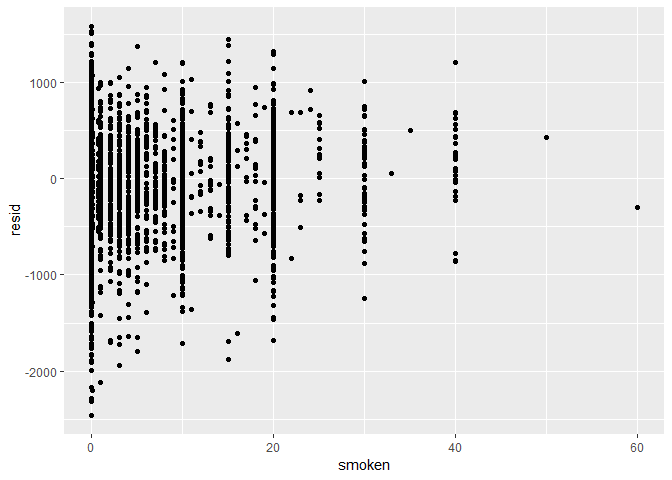
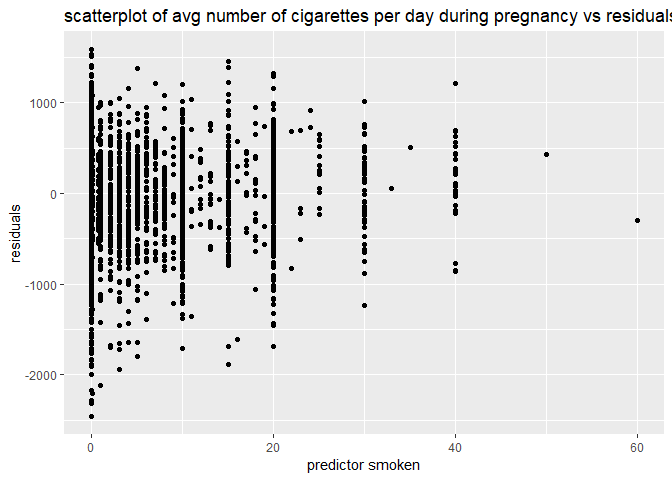
trying to finish the cross validation step >:O

diff --git a/p8105_hw6_cac2225.md b/p8105_hw6_cac2225.md
@@ -20,14 +20,14 @@ First loading all necessary packages for the homework assignment.
 library(tidyverse)
 ```
 
-    ## -- Attaching packages --------------------------------------------------------------------------------------------------------- tidyverse 1.2.1 --
+    ## -- Attaching packages ------------------------ tidyverse 1.2.1 --
 
     ## v ggplot2 3.0.0     v purrr   0.2.5
     ## v tibble  1.4.2     v dplyr   0.7.6
     ## v tidyr   0.8.1     v stringr 1.3.1
     ## v readr   1.1.1     v forcats 0.3.0
 
-    ## -- Conflicts ------------------------------------------------------------------------------------------------------------ tidyverse_conflicts() --
+    ## -- Conflicts --------------------------- tidyverse_conflicts() --
     ## x dplyr::filter() masks stats::filter()
     ## x dplyr::lag()    masks stats::lag()
 
@@ -262,7 +262,7 @@ skimr::skim(birthweight)
     ##  n obs: 4342 
     ##  n variables: 20 
     ## 
-    ## -- Variable type:factor --------------------------------------------------------------------------------------------------------------------------
+    ## -- Variable type:factor -----------------------------------------
     ##  variable missing complete    n n_unique
     ##   babysex       0     4342 4342        2
     ##     frace       0     4342 4342        5
@@ -274,7 +274,7 @@ skimr::skim(birthweight)
     ##                abs: 4327, pre: 15, NA: 0   FALSE
     ##  whi: 2147, bla: 1909, pue: 243, asi: 43   FALSE
     ## 
-    ## -- Variable type:integer -------------------------------------------------------------------------------------------------------------------------
+    ## -- Variable type:integer ----------------------------------------
     ##  variable missing complete    n      mean     sd  p0  p25    p50  p75 p100
     ##     bhead       0     4342 4342   33.65     1.62  21   33   34     35   41
     ##   blength       0     4342 4342   49.75     2.72  20   48   50     51   63
@@ -304,7 +304,7 @@ skimr::skim(birthweight)
     ##  <U+2581><U+2587><U+2586><U+2581><U+2581><U+2581><U+2581><U+2581>
     ##  <U+2581><U+2581><U+2581><U+2587><U+2587><U+2581><U+2581><U+2581>
     ## 
-    ## -- Variable type:numeric -------------------------------------------------------------------------------------------------------------------------
+    ## -- Variable type:numeric ----------------------------------------
     ##  variable missing complete    n  mean   sd    p0   p25   p50   p75 p100
     ##   gaweeks       0     4342 4342 39.43 3.15 17.7  38.3  39.9  41.1  51.3
     ##     ppbmi       0     4342 4342 21.57 3.18 13.07 19.53 21.03 22.91 46.1
@@ -333,7 +333,10 @@ First the residual values are plotted against each predictor variable. The resid
 ``` r
 birthweight %>% 
   modelr::add_residuals(lm_birthweight) %>% 
-  ggplot(aes(x = wtgain, y = resid)) + geom_point()
+  ggplot(aes(x = wtgain, y = resid)) + geom_point() +   labs(
+    x = "predictor weight gain",
+    y = "residuals",
+    title = "scatterplot of weight gain variable vs residuals")
 ```
 
 ![](p8105_hw6_cac2225_files/figure-markdown_github/wtgain%20vs%20residuals-1.png)
@@ -341,7 +344,10 @@ birthweight %>%
 ``` r
 birthweight %>% 
   modelr::add_residuals(lm_birthweight) %>% 
-  ggplot(aes(x = ppbmi, y = resid)) + geom_point()
+  ggplot(aes(x = ppbmi, y = resid)) + geom_point() + labs(
+    x = "predictor pre pregnancy bmi",
+    y = "residuals",
+    title = "scatterplot of pre pregnancy bmi vs. residuals")
 ```
 
 ![](p8105_hw6_cac2225_files/figure-markdown_github/ppbmi%20vs%20residuals-1.png)
@@ -349,7 +355,10 @@ birthweight %>%
 ``` r
 birthweight %>% 
   modelr::add_residuals(lm_birthweight) %>% 
-  ggplot(aes(x = smoken, y = resid)) + geom_point()
+  ggplot(aes(x = smoken, y = resid)) + geom_point() + labs(
+    x = "predictor smoken",
+    y = "residuals",
+    title = "scatterplot of avg number of cigarettes per day during pregnancy vs residuals")
 ```
 
 ![](p8105_hw6_cac2225_files/figure-markdown_github/smoken%20vs%20residuals-1.png)
@@ -357,7 +366,10 @@ birthweight %>%
 ``` r
 birthweight %>% 
   modelr::add_residuals(lm_birthweight) %>% 
-  ggplot(aes(x = resid)) + geom_density()
+  ggplot(aes(x = resid)) + geom_density() + labs(
+    x = "residuals",
+    y = "density",
+    title = "density plot of residuals")
 ```
 
 ![](p8105_hw6_cac2225_files/figure-markdown_github/overall%20distribution%20of%20residuals-1.png)
@@ -370,12 +382,15 @@ Additionally, the residuals are plotted against the fitted values.
 birthweight %>% 
   modelr::add_predictions(lm_birthweight) %>% 
   modelr::add_residuals(lm_birthweight) %>% 
-  ggplot(aes(x = pred, y = resid)) + geom_point()
+  ggplot(aes(x = pred, y = resid)) + geom_point() + labs(
+    x = "fitted values",
+    y = "residuals",
+    title = "scatterplot of fitted values vs residuals")
 ```
 
 ![](p8105_hw6_cac2225_files/figure-markdown_github/fitted%20values%20vs.%20residuals-1.png)
 
-The residuals do not appear randomly scatted, in fact there seems to be an upward positive trend.
+The residuals do not appear randomly scattered around 0, in fact there seems to be some clustering slightly towards the left of the plot.
 
 This proposed model therefore is definitely not perfect. Non-linear models should be tested to see if they fit the data better. Each variable should be examined for outliers, which should be removed and the model rerun.
 
